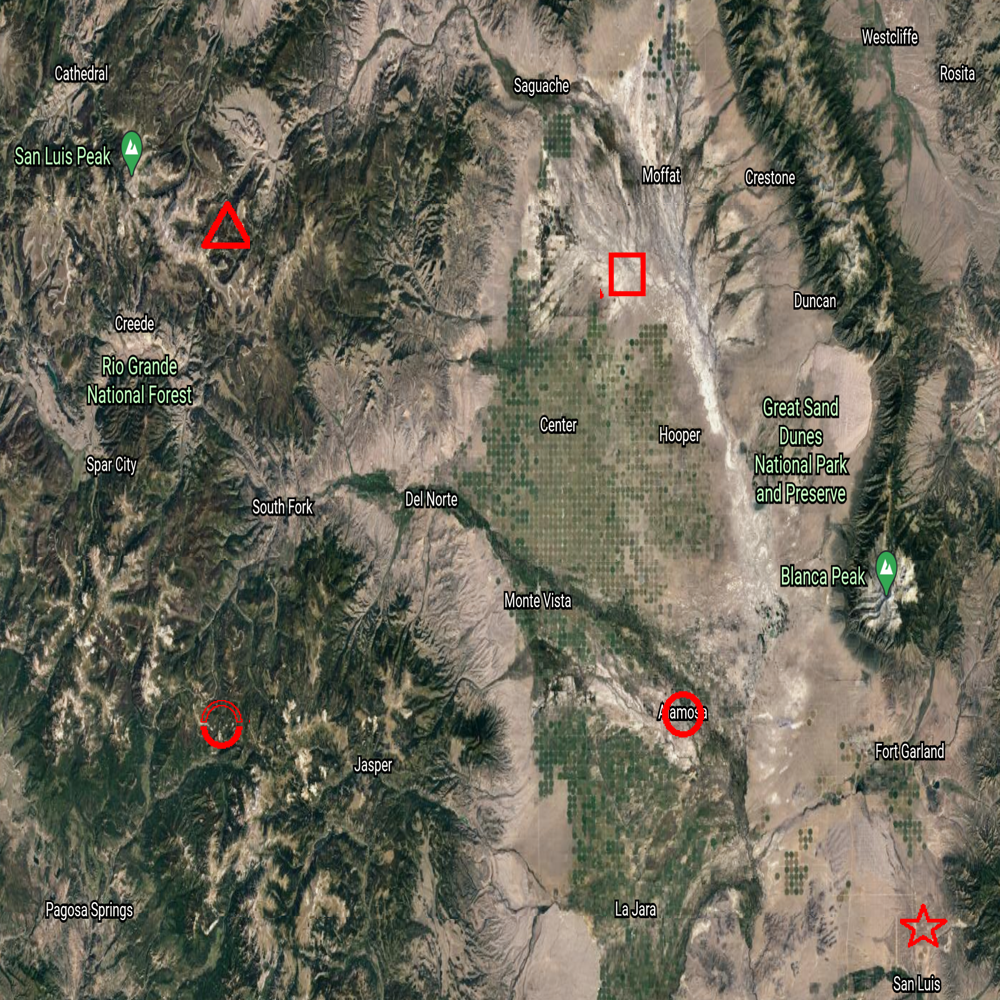
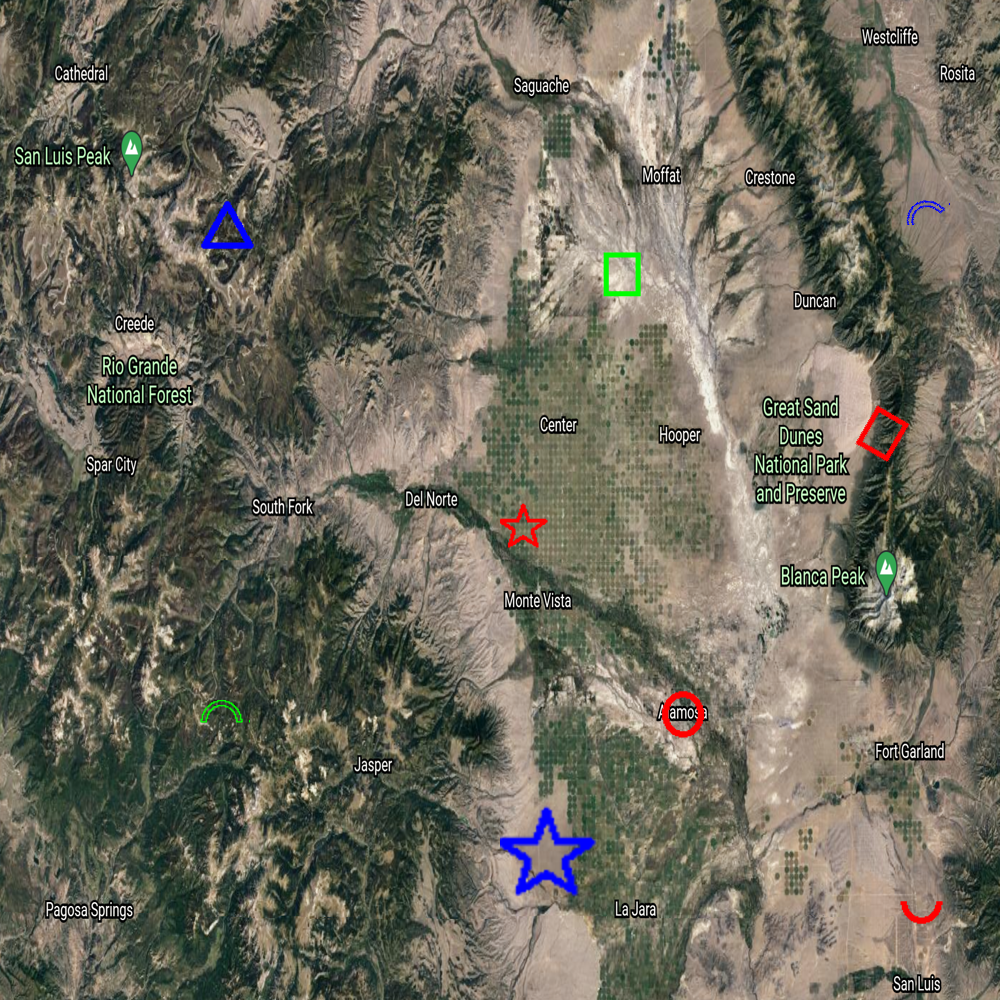
Scaling, coloring, rotation, non-uniform symbols sizes

diff --git a/index.py b/index.py
@@ -8,10 +8,13 @@ theMap = Image.open('Map.png').resize((1000, 1000))
     #I manually went in and removed the background from the PNG file provided using GIMP - it was the easiest way I found
     #Math -> height = arbitrary (can be factor of map size)   width = height * # of symbols
     #Assumes the symbols are in one line and all occupy the same size pixel block
-numOfSymbols = 5
+equally_sized_box_code = 'lines 12 - 29'
+"""
+numOfSymbols = 6
 symbolHeight = 50   #in pixels
 stripWidth = symbolHeight * numOfSymbols
-symbols=Image.open('Symbols.png').resize((stripWidth,symbolHeight)).convert('RGBA').save('Sized-Symbols.png')
+symbols = Image.open('Modified_Symbols_Transparent.png').resize((stripWidth,symbolHeight)).convert('RGBA').save('Sized-Symbols.png')
+
 
 #Saves each unique symbol to a variable 
     #theoretically could create a loop and save as an array (I think? Not sure with Python)
@@ -20,22 +23,46 @@ symbols = 'Sized-Symbols.png'
 triangle = Image.open(symbols).crop((symbolHeight*0, 0, symbolHeight*1, symbolHeight))
 square = Image.open(symbols).crop((symbolHeight*1, 0, symbolHeight*2, symbolHeight))
 circle = Image.open(symbols).crop((symbolHeight*2, 0, symbolHeight*3, symbolHeight))
-arc = Image.open(symbols).crop((symbolHeight*3, 0, symbolHeight*4, symbolHeight))
-star = Image.open(symbols).crop((symbolHeight*4, 0, symbolHeight*5, symbolHeight))
+uparc = Image.open(symbols).crop((symbolHeight*3, 0, symbolHeight*4, symbolHeight))
+downarc = Image.open(symbols).crop((symbolHeight*4, 0, symbolHeight*5, symbolHeight))
+star = Image.open(symbols).crop((symbolHeight*5, 0, symbolHeight*6, symbolHeight))
+"""
 
-#Allows symbols to be superimposed over the graph
+numOfSymbolsWide = 5
+symbolHeight = 50   #in pixels
+stripWidth = symbolHeight * numOfSymbolsWide
+symbols = Image.open('Symbols.png').resize((stripWidth,symbolHeight)).convert('RGBA').save('Sized-Symbols.png')
+
+symbols = 'Sized-Symbols.png'
+triangle = Image.open(symbols).crop((symbolHeight*0,    0,              symbolHeight*1.1,   symbolHeight))
+square = Image.open(symbols).crop((  symbolHeight*1.1,  0,              symbolHeight*2,     symbolHeight))
+circle = Image.open(symbols).crop((  symbolHeight*2,    0,              symbolHeight*3,     symbolHeight))
+uparc = Image.open(symbols).crop((   symbolHeight*3,    0,              symbolHeight*4,     symbolHeight/2))
+downarc = Image.open(symbols).crop(( symbolHeight*3,    symbolHeight/2, symbolHeight*4,     symbolHeight))
+star = Image.open(symbols).crop((    symbolHeight*4,    0,              symbolHeight*5,     symbolHeight))
+
+
+#Allows symbols to be superimposed over the map
 drawSymbol = ImageDraw.Draw(theMap)
 
-#Not sure why, but the transparency mask I'm using turns the symbols to white, so have to reset to red
+#Color presets
 red = 'rgb(255, 0, 0)'
+green = 'rgb(0, 255, 0)'
+blue = 'rgb(0, 0, 255)'
 
 #Draw each symbol onto the map at given (x,y) coordinate - (0,0) is top left
-drawSymbol.bitmap((200, 200), triangle, fill=red)
-drawSymbol.bitmap((600, 250), square, fill=red)
+drawSymbol.bitmap((200, 200), triangle, fill=blue)
+drawSymbol.bitmap((600, 250), square, fill=green)
 drawSymbol.bitmap((660, 690), circle, fill=red)
-drawSymbol.bitmap((200, 700), arc, fill=red)
-drawSymbol.bitmap((900, 900), star, fill=red)
- 
+drawSymbol.bitmap((200, 700), uparc, fill=green)
+drawSymbol.bitmap((900, 900), downarc, fill=red)
+drawSymbol.bitmap((500, 500), star, fill=red)
+drawSymbol.bitmap((900, 200), uparc.rotate(38), fill=blue)
+drawSymbol.bitmap((850, 400), square.rotate(150, expand='true'), fill=red)
+drawSymbol.bitmap((500, 800), star.resize((round(star.size[0]*2), round(star.size[1]*2))), fill=blue)
+
+
+
 #Show the map (mostly for debugging)
 theMap.show()
 
